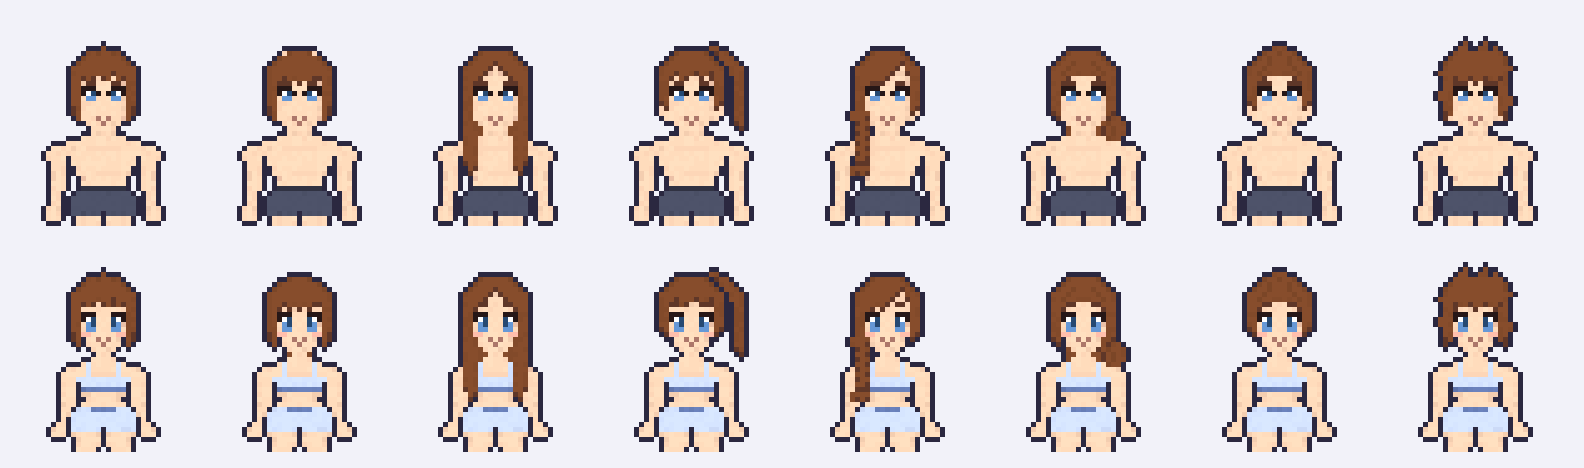
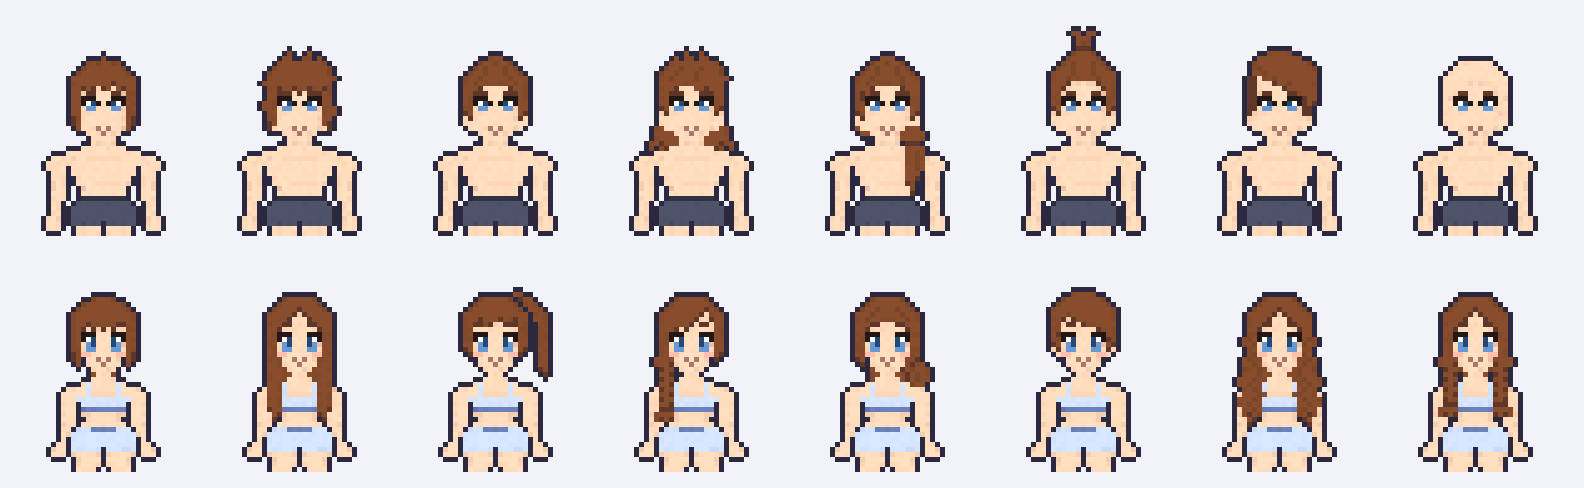
ศิลป์: แยกทรงผมชายกับหญิงเป็นคนละรายการ และวาดทรงใหม่ ชาย 5 หญิง 3
Phupha ไม่ให้ใช้ทรงผมผู้หญิงกับผู้ชายปนกัน ผมยาวของผู้ชายต้องดูเป็นผู้ชาย
และอนุมัติรายการใหม่ฝั่งละ 8 ทรง (7 พ.ย. 2026)

- art/hair.yaml: รายการทรงชายและหญิง เรียงตามหน้าสร้างตัวละคร พร้อมชื่อไทย
- ชิ้นย้ายไป hair/m/ (short messy slicked) และ hair/f/ (bob long ponytail braid bun)
  ทุกชิ้นบอก body: ที่หัวไฟล์ ใส่ผิดร่างจะ error
- ทรงชายใหม่: long ยาวประบ่าแบบนักรบ (ความยาวอยู่ด้านหลัง ปลายแตกบนไหล่)
  ponytail หางม้าต่ำพาดไหล่ topknot มวยจุก undercut อันเดอร์คัต bald โล้น
- ทรงหญิงใหม่: pixie พิกซี่ wavy ยาวลอน twin_braids เปียคู่
- check: รายการใน hair.yaml ต้องตรงกับชิ้นในโฟลเดอร์ ทุกทรงตรวจบนร่างของตัวเอง
  กับสีผิว ผม ตาที่วนกันไป และยังห้ามบังตา ปาก แก้ม น้ำตาทั้ง 17 สีหน้า
- ลายเม็ดของชิ้นไม่ขึ้นกับโฟลเดอร์ร่าง ภาพที่ล็อกจึงออกมาเหมือนเดิมทุกพิกเซล
- เอาชุดสลับผมชายหญิงออกจาก looks.yaml และ proof.png
- hair.png: แถวบนทรงชาย แถวล่างทรงหญิง
- บันทึกคำตอบ A11 ที่แก้ลง docs/PLAN.md และกติกาใน CLAUDE.md

Claude-Session: https://claude.ai/code/session_0183TD4An7S6gvbXyorXSGqR

diff --git a/art/README.md b/art/README.md
@@ -4,7 +4,7 @@
 
 ## ทำงานอย่างไร
 
-1. ชิ้น (piece) คือไฟล์ YAML ใน `art/pieces/` บอกรูปทรงกับวัสดุ วางตามจุดอ้างอิงของร่าง (`marks` ใน `art/bodies.yaml`) ชิ้นเดียวจึงใส่ได้ทั้งร่างชายและหญิง
+1. ชิ้น (piece) คือไฟล์ YAML ใน `art/pieces/` บอกรูปทรงกับวัสดุ วางตามจุดอ้างอิงของร่าง (`marks` ใน `art/bodies.yaml`) ชิ้นเดียวจึงใส่ได้ทั้งร่างชายและหญิง ยกเว้นชิ้นที่บอก `body:` ไว้ที่หัวไฟล์ เช่น ทรงผม ที่ชายกับหญิงมีรายการของตัวเอง
 2. `kit.mjs` แปลงชิ้นเป็นภาพดัชนี คือวัสดุกับระดับแสง 0–4 ต่อพิกเซล แล้วลงแสงเงาให้เอง ขอบชิ้นมืดลงเล็กน้อย มีจุดเม็ดเล็กตามวัสดุ
 3. ตอนรวมภาพ (`compose`) ซ้อนชิ้นตาม `z` ทำเงาสัมผัส 1 px ข้างชิ้นที่อยู่บน ใส่เส้นขอบ 1 px สี #2b2840 รอบเงาทั้งตัว แล้วลงสีจาก ramp ใน `art/palette.yaml` สีจึงเปลี่ยนได้โดยไม่ต้องสร้างชิ้นใหม่
 
@@ -14,14 +14,15 @@
 | --- | --- |
 | `art/bodies.yaml` | ร่างชาย (`m`) และหญิง (`f`): จุดอ้างอิงกับส่วนของร่าง |
 | `art/palette.yaml` | ramp สี วัสดุพร้อมค่าแสงเงา ตัวเลือกสีผิว ผม ตา (`choices`) และตัวอักษรที่ใช้ในชิ้นแบบ ascii |
-| `art/pieces/<ช่อง>/<ชื่อ>.yaml` | ชิ้นต่างๆ เช่น `hair/long` `face/basic` `under/briefs` |
+| `art/pieces/<ช่อง>/<ชื่อ>.yaml` | ชิ้นต่างๆ เช่น `face/basic` `under/briefs` `hair/f/long` (ชิ้นของร่างเดียวอยู่ในโฟลเดอร์ชื่อร่าง) |
+| `art/hair.yaml` | รายการทรงผมชายกับหญิง เรียงตามหน้าสร้างตัวละคร พร้อมชื่อภาษาไทย |
 | `art/looks.yaml` | ชุดสำหรับดูภาพและตรวจ |
 | `art/kit/` | โค้ด: `kit.mjs` สร้างและรวมภาพ, `check.mjs` ตรวจ, `lock.mjs` อ่านภาพที่ล็อก, `sheet.mjs` จัดภาพ, `colour.mjs` ทำ ramp สีใหม่ให้ไล่เงาแบบ ramp ที่ล็อก, `build.mjs` คำสั่ง |
-| `art/preview/` | ภาพตัวอย่างที่ commit ไว้: `proof.png` ร่างกับสามหน้าแรก, `faces.png` สีหน้าทั้ง 17 แบบ, `hair.png` ทรงผมทั้ง 8 แบบบนสองร่าง, `colours.png` สีผิว สีผม สีตาที่เลือกไว้ |
+| `art/preview/` | ภาพตัวอย่างที่ commit ไว้: `proof.png` ร่างกับสามหน้าแรก, `faces.png` สีหน้าทั้ง 17 แบบ, `hair.png` ทรงผมชาย 8 แบบ (แถวบน) และหญิง 8 แบบ (แถวล่าง), `colours.png` สีผิว สีผม สีตาที่เลือกไว้ |
 
 ## คำสั่ง (รันจากรากของ repo)
 
-- `node art/kit/build.mjs check` ตรวจทุกชิ้นทุกร่าง จำนวนสี ขอบ canvas และเทียบกับแบบที่ล็อก ทั้งร่างและสีหน้าครบ 17 แบบ ตรวจว่าทรงผมไม่บังตา ปาก แก้ม และตัวเลือกสีชี้ไปที่ ramp ที่มีอยู่จริง (`npm test` รันอันนี้ด้วย)
+- `node art/kit/build.mjs check` ตรวจทุกชิ้นทุกร่าง จำนวนสี ขอบ canvas และเทียบกับแบบที่ล็อก ทั้งร่างและสีหน้าครบ 17 แบบ ตรวจว่าทรงผมไม่บังตา ปาก แก้ม ทรงผมใน hair.yaml มีชิ้นจริงครบและตรงกับโฟลเดอร์ ทรงผมทุกแบบใส่บนร่างของตัวเองกับสีผิว ผม ตาที่วนกันไปแล้วไม่ล้นขอบและไม่เกินงบสี และตัวเลือกสีชี้ไปที่ ramp ที่มีอยู่จริง (`npm test` รันอันนี้ด้วย)
 - `node art/kit/build.mjs proof [-v]` เขียน `art/preview/proof.png` ภาพคู่ของร่างกับสามหน้าในภาพตัวอย่างที่ผ่านแล้ว ซ้ายแบบที่ล็อก ขวาเครื่องมือนี้ และ `faces.png` สีหน้า 17 แบบ แถวบนแบบที่ล็อก แถวล่างเครื่องมือนี้ (ชายสองแถวแรก หญิงสองแถวหลัง) พร้อม `hair.png` กับ `colours.png` `-v` พิมพ์แถวที่ต่างกัน
 - `node art/kit/build.mjs look <ชื่อ> [อารมณ์]` เขียนภาพชุดจาก `looks.yaml`
 - `node art/kit/build.mjs ramp <ramp> <สี>` พิมพ์ ramp 5 สีที่ไล่เงาแบบ `<ramp>` โดยใช้ `<สี>` เป็นระดับ 3 ถ้าเป็น ramp ผิว จะพิมพ์สีปากกับสีแก้มที่เข้ากันมาให้ด้วย
@@ -38,7 +39,7 @@
 
 ค่าแถวระหว่างจุดที่เขียนไว้จะเฉลี่ยให้เอง แถวเขียนเป็นเลขหรือชื่อจุดอ้างอิงก็ได้ เช่น `hip` `chin+2` `brow-1`
 
-ตัวเลือกของรูปทรง: `mat: cloth` ลงแสงเงาเอง, `mat: cloth@0` ระดับคงที่, `variant: smile` หรือ `variant: [smile, wink]` ใช้เฉพาะอารมณ์นั้น, `body: f` ใช้เฉพาะร่างนั้น (ใส่เป็นรายการได้เหมือนกัน), `layer: back` อยู่หลังร่าง เช่น ผมด้านหลัง, `layer: front` อยู่เหนือผม (z ตาม `front_z` ของชิ้น ค่าตั้งต้น 61), `paint: true` ลงสีทับพิกเซลที่มีอยู่โดยไม่สร้างส่วนใหม่ ใช้แต่งด้วยมือ, `cut: true` ลบ
+ตัวเลือกของรูปทรง: `mat: cloth` ลงแสงเงาเอง, `mat: cloth@0` ระดับคงที่, `variant: smile` หรือ `variant: [smile, wink]` ใช้เฉพาะอารมณ์นั้น, `body: f` ใช้เฉพาะร่างนั้น (ใส่เป็นรายการได้เหมือนกัน ถ้าใส่ที่หัวไฟล์แทนในรูปทรง ทั้งชิ้นจะใช้ได้แค่ร่างนั้น ใส่ร่างอื่นจะ error), `layer: back` อยู่หลังร่าง เช่น ผมด้านหลัง, `layer: front` อยู่เหนือผม (z ตาม `front_z` ของชิ้น ค่าตั้งต้น 61), `paint: true` ลงสีทับพิกเซลที่มีอยู่โดยไม่สร้างส่วนใหม่ ใช้แต่งด้วยมือ, `cut: true` ลบ
 
 ## สีหน้า
 
@@ -58,20 +59,35 @@
 
 ## ทรงผม
 
-8 แบบตามข้อ A11 อยู่ใน `art/pieces/hair/` ทุกแบบใส่ได้ทั้งร่างชายและหญิง
+ชายกับหญิงมีรายการทรงผมของตัวเอง ไม่ใช้ทรงร่วมกัน (Phupha เลือก 7 พ.ย. 2026 ผมยาวของผู้ชายต้องดูเป็นผู้ชาย) รายการอยู่ใน `art/hair.yaml` เรียงตามลำดับที่จะขึ้นในหน้าสร้างตัวละคร พร้อมชื่อภาษาไทยที่ผู้เล่นเห็น ชิ้นอยู่ใน `art/pieces/hair/m/` กับ `art/pieces/hair/f/` ทุกชิ้นบอก `body: m` หรือ `body: f` ที่หัวไฟล์ check ตรวจว่ารายการกับโฟลเดอร์ตรงกัน
+
+ชาย (`hair/m/`)
 
 | ชิ้น | ทรง |
 | --- | --- |
-| `short` | สั้น (ภาพที่ล็อก ร่างชาย) |
-| `bob` | บ็อบ (ภาพที่ล็อก ร่างหญิง) |
+| `short` | สั้น (ภาพที่ล็อก) |
+| `messy` | ยุ่ง ปอยผมชี้หลายทาง หน้าม้าไม่เสมอกัน |
+| `slicked` | เสยหลัง ไม่มีหน้าม้า เห็นหน้าผาก |
+| `long` | ยาวประบ่าแบบนักรบ ด้านบนชี้ไปข้างหลัง เปิดหน้าผากเฉียงใต้ปอยผมปอยเดียว ข้างแก้มสั้น ความยาวอยู่ด้านหลัง โผล่ข้างกรามกับคอแล้วปลายแตกเป็นแฉกบนไหล่ ไม่มีผมปิดข้างหน้าแบบผมยาวผู้หญิง |
+| `ponytail` | หางม้าต่ำ หวีเสยไปมัดที่ท้ายทอย มีปอยหลุดข้างขมับ หางอ้อมคอมาพาดไหล่ทางขวาของภาพ ปลายหยาบ |
+| `topknot` | มวยจุก รวบขึ้นไปมัดกลางกระหม่อม ปลายตั้งแตกเป็นพู่ |
+| `undercut` | อันเดอร์คัต ข้างเกรียน (สีเข้มจางเข้าผิวที่หู) ด้านบนยาวปัดไปทางขวาของภาพเลยคิ้ว |
+| `bald` | โล้น ชิ้นว่าง ใช้หัวของร่างเลย คิ้วยังใช้สีผม |
+
+หญิง (`hair/f/`)
+
+| ชิ้น | ทรง |
+| --- | --- |
+| `bob` | บ็อบ (ภาพที่ล็อก) |
 | `long` | ยาวตรง แสกกลาง ผมด้านข้างยาวพาดไหล่ถึงอก |
 | `ponytail` | หางม้ามัดสูง มีหน้าม้า หางห้อยอยู่ข้างหัวทางขวาของภาพ |
 | `braid` | เปียข้าง แสกข้าง ปัดหน้าม้าไปทางเดียวกัน เปียพาดไหล่ทางซ้ายของภาพ |
 | `bun` | มวยต่ำ เกล้าเรียบ มวยโผล่ข้างคอทางขวาของภาพ เพราะมวยกลางท้ายทอยมองจากหน้าตรงไม่เห็น |
-| `slicked` | เสยหลัง ไม่มีหน้าม้า เห็นหน้าผาก |
-| `messy` | ยุ่ง ปอยผมชี้หลายทาง หน้าม้าไม่เสมอกัน |
+| `pixie` | พิกซี่ สั้นรอบหัว ด้านบนฟู หน้าม้าปัดข้างจากแสกทางซ้ายของภาพ จอนเรียวหน้าหู |
+| `wavy` | ยาวลอน แสกกลาง ฟูกว่ายาวตรง ผมด้านข้างพองเป็นลอนลงไปถึงอก ปลายม้วน |
+| `twin_braids` | เปียคู่ แสกกลาง ผมเรียบลงข้างแก้ม ใต้กรามถักเป็นเปียสองข้างพาดไหล่ |
 
-ผมที่อยู่หลังร่าง เช่น หางม้า มวย และผมด้านหลังของผมยาว ใช้ `layer: back` ส่วนผมที่พาดหน้าไหล่อยู่ที่ z 60 จึงทับเสื้อผ้า ทรงผมห้ามบังตา ปาก แก้ม หรือน้ำตาของสีหน้าใดเลย (check ตรวจให้) คิ้วหลบใต้หน้าม้าได้เหมือนในภาพที่ล็อก
+ผมที่อยู่หลังร่าง เช่น หางม้า มวย และผมด้านหลังของผมยาว ใช้ `layer: back` ส่วนผมที่พาดหน้าไหล่อยู่ที่ z 60 จึงทับเสื้อผ้า ทรงผมห้ามบังตา ปาก แก้ม หรือน้ำตาของสีหน้าใดเลย (check ตรวจให้) คิ้วหลบใต้หน้าม้าได้เหมือนในภาพที่ล็อก ลายเม็ดของชิ้นคิดจากชื่อชิ้นโดยไม่นับโฟลเดอร์ร่าง `hair/m/short` จึงลงเงาตรงกับ `hair/short` ที่ Phupha อนุมัติทุกพิกเซล
 
 ## ทำจำนวนมากให้ประหยัด
 

diff --git a/CLAUDE.md b/CLAUDE.md
@@ -33,6 +33,7 @@
 - แบบที่ล็อกไว้ (Phupha, 7 พ.ย. 2026): sprite ทุกตัวต้องออกมาหน้าตา ลายเส้น และสีแบบภาพใน [docs/ref/style-lock/](docs/ref/style-lock/) ตัวสูง 3.25 หัว ห้ามเสนอสไตล์อื่นเอง
 - สร้างภาพด้วยเครื่องมือ 2D ของเกมเอง ไม่ใช้โค้ดหรือไฟล์จาก Voxel Realm (ภาพที่ล็อกทำจาก Voxel Realm แต่ใช้เป็นแบบให้ดูเท่านั้น)
 - ใช้ระบบ sprite ซ้อนชั้น วาดแต่ละชิ้นครั้งเดียว เปลี่ยนสีด้วย palette ห้ามวาดตัวละครทั้งตัวใหม่เพื่อเปลี่ยนของ
+- ทรงผมชายกับหญิงแยกรายการกัน (art/hair.yaml) ห้ามเอาทรงผู้หญิงใส่ร่างชายหรือกลับกัน ผมยาวของผู้ชายต้องดูเป็นผู้ชาย (Phupha, 7 พ.ย. 2026)
 - ห้ามลอก sprite จากเกมอื่น ใช้ reference เพื่อศึกษาเท่านั้น
 
 ## ลิขสิทธิ์
